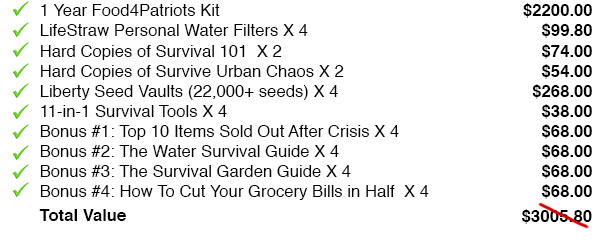
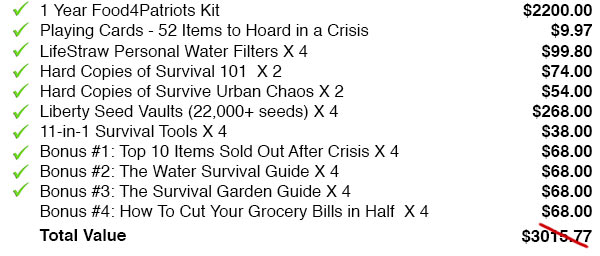
FFP-148 1 Year Updates

Changed region(s): [[0.0, 0.0, 0.72, 0.9625], [0.87, 0.0, 0.99, 0.9917], [0.0, 0.0, 0.06, 0.0583]]

diff --git a/checkout/oto/f4p-1year-kit.php b/checkout/oto/f4p-1year-kit.php
@@ -21,22 +21,22 @@ include_once ('template-header.php'); /*Add template-header-nav.php to add top m
 ?>
 <script src="/js/audio.js"></script>
 <script language="javascript">
-    $(document).ready(function() {
+	$(document).ready(function() {
 
 		$("#optin-form").validate({
-    		rules: {
-    			check1: {
+			rules: {
+				check1: {
 					required: true
-    			},
-  			},
-  			messages: { 
+				},
+			},
+			messages: {
 		  check1: '<div class="warning-check"></div>',
-        },
+		},
 		submitHandler: function(form) {
 		 //optIn(); 
 		 form.submit();
 		}
-    	});
+		});
 		
 	});
 </script>
@@ -70,40 +70,40 @@ include_once ('template-header.php'); /*Add template-header-nav.php to add top m
 	}
 </script>
 <div class="container-main">
-    <div class="breadcrumb1">
-        <a>CHECKOUT</a>
-        <a class="current">ORDER CUSTOMIZATION</a>
-        <a>ORDER CONFIRMATION</a>
-    </div>
+	<div class="breadcrumb1">
+		<a>CHECKOUT</a>
+		<a class="current">ORDER CUSTOMIZATION</a>
+		<a>ORDER CONFIRMATION</a>
+	</div>
 <div class="container oto-width">
 		<div><h1 class="darkRed text-center"><?php echo $firstName;?>, Act Now And Save An Additional $1000 (Today Only)</h1>
 		</div>
-        <div id="videobox" class="hidden-xs">
+		<div id="videobox" class="hidden-xs">
 			<iframe src="//fast.wistia.net/embed/iframe/p5l8v3n48p?videoFoam=true" allowtransparency="true" frameborder="0" scrolling="no" class="wistia_embed" name="wistia_embed" width="640" height="352"></iframe><script src="//fast.wistia.net/assets/external/iframe-api-v1.js"></script>
 		</div>
-        <div style="margin-top:50px;">
+		<div style="margin-top:50px;">
 			<p><?php echo $firstName;?>, congratulations for making the great decision to get the 3-month Food4Patriots kit. </p>
-            <p>You&rsquo;ve taken an important step today to take charge, be more self-reliant and protect your family. I know you&rsquo;re going to sleep easier at night. The folks in our warehouse have reserved your order and they are already busy getting it ready to ship to you in <?php echo $shippingCity;?>.</p>
-          <p>But before you move on, I've got a <strong>special 1-time offer</strong> for you... </p>
-            <p>A lot of folks have told me that while they love having the 3-month kit on hand, they feel that it&rsquo;s simply not enough food… especially given the scary state of affairs in this country and the constant threat of natural disasters. In fact, we have quite a few folks telling us, &ldquo;I&rsquo;ll take everything you&rsquo;ve got!&rdquo;</p>
-            <img class="img-responsive center-block" src="/media/images/f4p//f4p-testimonials-10.png" alt="L. Graeser's Testimonial" style="margin-bottom:20px;">
-        </div>
-        <div>
+			<p>You&rsquo;ve taken an important step today to take charge, be more self-reliant and protect your family. I know you&rsquo;re going to sleep easier at night. The folks in our warehouse have reserved your order and they are already busy getting it ready to ship to you in <?php echo $shippingCity;?>.</p>
+		  <p>But before you move on, I've got a <strong>special 1-time offer</strong> for you... </p>
+			<p>A lot of folks have told me that while they love having the 3-month kit on hand, they feel that it&rsquo;s simply not enough food… especially given the scary state of affairs in this country and the constant threat of natural disasters. In fact, we have quite a few folks telling us, &ldquo;I&rsquo;ll take everything you&rsquo;ve got!&rdquo;</p>
+			<img class="img-responsive center-block" src="/media/images/f4p//f4p-testimonials-10.png" alt="L. Graeser's Testimonial" style="margin-bottom:20px;">
+		</div>
+		<div>
 			<p>I want to do everything I can to help you build your food stockpile as quickly and easily as possible, so to thank you for becoming a customer today, I am offering you an&nbsp;<strong>exclusive $1000.00 discount on a ONE YEAR Food4Patriots kit if you act now</strong>. But this special sale offer is ONLY for customers so if you&rsquo;re seeing this, then good news, you qualify!</p>
-            <p>Plus I'll throw in <strong>FREE Shipping and 27 FREE bonus gifts worth $470.00</strong> -- including 4 of the super-popular Lifestraw Personal Water Filters and over 22,000+ heirloom survival seeds -- just to make this a "no-brainer" for you!</p>
-            <p><?php echo $firstName;?>, would you like to accelerate your results by adding the 1 Year Food4Patriots Kit to your order at a 1-time discount sale price of $1,997? (That&rsquo;s a $1,000.00 discount with all the free goodies…you&rsquo;ll get 1 year&rsquo;s worth of food for just $1.11 per serving!)</p>
-            
-       	  <p class="text-center read-warning">Please read the rest of the page below and accept or decline the offer at the bottom of the page.</p>
+			<p>Plus I'll throw in <strong>FREE Shipping and 27 FREE bonus gifts worth $470.00</strong> -- including 4 of the super-popular Lifestraw Personal Water Filters and over 22,000+ heirloom survival seeds -- just to make this a "no-brainer" for you!</p>
+			<p><?php echo $firstName;?>, would you like to accelerate your results by adding the 1 Year Food4Patriots Kit to your order at a 1-time discount sale price of $1,997? (That&rsquo;s a $1,000.00 discount with all the free goodies…you&rsquo;ll get 1 year&rsquo;s worth of food for just $1.11 per serving!)</p>
+
+		  <p class="text-center read-warning">Please read the rest of the page below and accept or decline the offer at the bottom of the page.</p>
 	</div>
 </div>
 <?php include("f4p-1year-glenbeck.html");?>
 <?php include("f4p-1year-whatsincluded.html");?>
 <div class="container oto-width">
-    <h2 class="darkRed text-center">Get FREE Shipping & Handling!</h2>
-			  	
+	<h2 class="darkRed text-center">Get FREE Shipping & Handling!</h2>
+
 			<p><img src="/media/images/misc/free-shipping-burst-01.png" alt="FREE Shipping" width="181" height="104" class="pull-left">You&rsquo;ll get FREE Shipping &amp; Handling on your 1 Year Food4Patriots Kit when you upgrade today!</p>
-            <p>Because we're already going to be sending you a 3-month kit, we can add the 1Year kit to the shipping box and save on fulfillment costs. Sure, the fact is that it DOES cost more in postage to ship you a much heavier box, but it&rsquo;s still a lot more efficient than sending 2 separate shipments. Everybody loves FREE Shipping and I want to pass along the savings to YOU to make it even easier to upgrade.</p>
-                
+			<p>Because we're already going to be sending you a 3-month kit, we can add the 1Year kit to the shipping box and save on fulfillment costs. Sure, the fact is that it DOES cost more in postage to ship you a much heavier box, but it&rsquo;s still a lot more efficient than sending 2 separate shipments. Everybody loves FREE Shipping and I want to pass along the savings to YOU to make it even easier to upgrade.</p>
+
 	<h2 class="darkRed text-center">Check Out The Amazing FREE Bonuses<br>You Can ONLY Get With The 1 Year Kit!</h2>
 	
 	<p>You&rsquo;re going to get the &ldquo;mother lode&rdquo; of special bonuses  ONLY available with the 1 Year Kit!</p>
@@ -125,9 +125,9 @@ include_once ('template-header.php'); /*Add template-header-nav.php to add top m
 
 
 <div class="container oto-width">
-           
 
-            <h2 class="darkRed text-center">You Are 100% Protected By My Outrageous Double Guarantee.</h2>
+
+			<h2 class="darkRed text-center">You Are 100% Protected By My Outrageous Double Guarantee.</h2>
 			<div class="outLineBoxDarkBlue">
 				<p><img src="/media/images/misc/seal-guarantee-satisfaction.jpg" alt="Guarantee #1" width="250" height="189" class="pull-left img-responsive media">
 					<h3>Guarantee #1:</h3> This is a 100% money back guarantee. No questions asked. If for any reason, you&rsquo;re not 
@@ -136,7 +136,7 @@ include_once ('template-header.php'); /*Add template-header-nav.php to add top m
 					any reason or no reason whatsoever. So there&rsquo;s absolutely no risk for you. You literally can&rsquo;t lose!</p>
 				<div class="clearfix"></div>
 			</div>
-          
+
 			<div class="outLineBoxDarkBlue">
 				<p><img src="/media/images/misc/seal-guarantee-money.jpg" alt="Guarantee #2" width="250" height="192" class="pull-left img-responsive media">
 				<h3>Guarantee #2:</h3> This is an unheard of 300% money back guarantee. It&rsquo;s in addition to guarantee #1. If you open any 
@@ -148,12 +148,12 @@ include_once ('template-header.php'); /*Add template-header-nav.php to add top m
 					really worried about it, because I am so confident you&rsquo;re going to see the value in your Food4Patriots kit as soon 
 					as you have it in your hands.</p>
 			</div>
-            
+
 			<div><img class="img-responsive center-block" src="/media/images/f4p/f4p-testimonials-09.png" width="626" height="269" alt="Stacy's Testimonial"></div>
-            
-            <h2 class="darkRed title-max-600 center-block text-center"><?php echo $firstName;?>, Get On The ‘Fast Track’ - Claim Your 1 Year 
-            	Food4Patriots Kit For $1000.00 Off Right Now!</h2>
-			          	
+
+			<h2 class="darkRed title-max-600 center-block text-center"><?php echo $firstName;?>, Get On The ‘Fast Track’ - Claim Your 1 Year
+				Food4Patriots Kit For $1000.00 Off Right Now!</h2>
+
 			<p>Now I understand that the 1 Year Food4Patriots kit is the right choice for folks who are looking for the ultimate in food security. This kit plus all the bonuses is valued at over $3,000, but because you&rsquo;ve already taken the 1st step, and because I appreciate you putting your trust in us by being a customer, you can get your 1 Year Food4Patriots kit today for just $1,997.</p>
 				
 			<p>You get a year&rsquo;s worth of delicious survival food for $1.11 per serving!</p>
@@ -173,11 +173,11 @@ include_once ('template-header.php'); /*Add template-header-nav.php to add top m
 				Food4Patriots kit at $1000.00 off, click the big orange &ldquo;Click Here To Accept&rdquo; button below.</p>
 
 			<div>
-                <div><img class="img-responsive center-block" src="/media/images/f4p/f4p-1-year-kit-01.jpg"  alt="Food4Patriots 1 Year Kit"/></div>
-                <div><img class="img-responsive center-block" src="/media/images/f4p/value-chart-3.jpg" alt="Value Chart"/></div>
-                <div class="text-center"><h2 id="save" class="darkRed">Act Today And Save Over $1000</h2></div>
-              
-                <a id="accept"></a>
+				<div><img class="img-responsive center-block" src="/media/images/f4p/f4p-1-year-kit-01.jpg"  alt="Food4Patriots 1 Year Kit"/></div>
+				<div><img class="img-responsive center-block" src="/media/images/f4p/value-chart-3.jpg" alt="Value Chart"/></div>
+				<div class="text-center"><h2 id="save" class="darkRed">Act Today And Save Over $1000</h2></div>
+
+				<a id="accept"></a>
 				<?php
 				if($isUpgrade) {
 					?>
@@ -187,47 +187,47 @@ include_once ('template-header.php'); /*Add template-header-nav.php to add top m
 					<?php
 				} else {
 				?>
-                <form action="/checkout/process.php" method="post" accept-charset="utf-8" id="optin-form">
-                    <div style="text-align:center;">
-                        <input type="image" src="/assets/images/buttons/btn-orange-click-accept-02.jpg" name="submit" class="img-responsive center-block" onClick="ga('send', 'event', 'upsell-2-f4p-1-yr-kit', 'f4p-1-yr-kit-accept', 'click-to-accept-bottom');"/>
+				<form action="/checkout/process.php" method="post" accept-charset="utf-8" id="optin-form">
+					<div style="text-align:center;">
+						<input type="image" src="/assets/images/buttons/btn-orange-click-accept-02.jpg" name="submit" class="img-responsive center-block" onClick="ga('send', 'event', 'upsell-2-f4p-1-yr-kit', 'f4p-1-yr-kit-accept', 'click-to-accept-bottom');"/>
 					</div>
-                    
-                    <div>
-                        <table  style="margin-right:auto;margin-left:auto;" border="0" cellspacing="0" cellpadding="0">
-                            <tr>
-                                <td><div style="text-align: left;margin-right:10px;"><strong>Quantity:</strong></div></td>
-                                <td><span style="text-align:center;padding-top:10px;padding-bottom:10px;">
-                                <select name="quantity" id="quantity" style="width:50px;margin-top:3px;margin-bottom:3px;" onchange="productChange();">
-                                  <?php
-                                for ($i=1; $i<=5; $i++)
-                                  {
-                                  echo "<option>". $i . "</option>";
-                                      }
-                                 ?>
-                                </select>
-                                </span></td>
-                            </tr>
-                        </table>
-                    </div>
-                  
-                    <div style="position:relative;text-align:left;margin-top:10px;max-width:600px;margin-right:auto;margin-left:auto;">
-                        <div style="float:left;margin-right:5px;">
-                            <input type="checkbox" id="check1" name="check1">
-                            <img src="/assets/images/misc/yes-01.jpg" width="74" height="34" alt="Yes">
-                        </div>
-                        <div id="terms">I want to add the 1 Year Food4Patriots Kit to my order at the 1-time discount sale price of $1,997. 
-                            I will get FREE Shipping and 27 FREE Bonus Gifts including 4 of the super-popular Lifestraw Personal Water Filters 
-                            and over 22,000+ heirloom survival seeds
-                        </div>
-                    </div>
-                    <div style="margin-top:20px;">
-                        <img class="img-responsive center-block"  src="/media/images/f4p/f4p-testimonials-07.png" alt="Food4Patriots Testimonial">
-                    </div>
-                    <div>
-                        <img class="img-responsive center-block" src="/media/images/f4p/f4p-testimonials-02.png" alt="Food4Patriots Testimonial">
-                    </div>
-                    <div class="text-center" style="margin-top:20px;"><strong>OR</strong></div>
-                </form>
+
+					<div>
+						<table  style="margin-right:auto;margin-left:auto;" border="0" cellspacing="0" cellpadding="0">
+							<tr>
+								<td><div style="text-align: left;margin-right:10px;"><strong>Quantity:</strong></div></td>
+								<td><span style="text-align:center;padding-top:10px;padding-bottom:10px;">
+								<select name="quantity" id="quantity" style="width:50px;margin-top:3px;margin-bottom:3px;" onchange="productChange();">
+								  <?php
+								for ($i=1; $i<=5; $i++)
+								  {
+								  echo "<option>". $i . "</option>";
+									  }
+								 ?>
+								</select>
+								</span></td>
+							</tr>
+						</table>
+					</div>
+
+					<div style="position:relative;text-align:left;margin-top:10px;max-width:600px;margin-right:auto;margin-left:auto;">
+						<div style="float:left;margin-right:5px;">
+							<input type="checkbox" id="check1" name="check1">
+							<img src="/assets/images/misc/yes-01.jpg" width="74" height="34" alt="Yes">
+						</div>
+						<div id="terms">I want to add the 1 Year Food4Patriots Kit to my order at the 1-time discount sale price of $1,997.
+							I will get FREE Shipping and 27 FREE Bonus Gifts including 4 of the super-popular Lifestraw Personal Water Filters
+							and over 22,000+ heirloom survival seeds
+						</div>
+					</div>
+					<div style="margin-top:20px;">
+						<img class="img-responsive center-block"  src="/media/images/f4p/f4p-testimonials-07.png" alt="Food4Patriots Testimonial">
+					</div>
+					<div>
+						<img class="img-responsive center-block" src="/media/images/f4p/f4p-testimonials-02.png" alt="Food4Patriots Testimonial">
+					</div>
+					<div class="text-center" style="margin-top:20px;"><strong>OR</strong></div>
+				</form>
 					<?php
 					}
 					?>

diff --git a/checkout/alt/f4p-1yearkit-offer.php b/checkout/alt/f4p-1yearkit-offer.php
@@ -53,7 +53,7 @@ include_once ('template-top.php');
 </div>
 <?php include("f4p-1year-bonus-lifestraw.html");?>
 <?php include("f4p-1year-bonus-survivalbooks.html");?>
-<?php //include("f4p-1year-bonus-pam.html");?>
+<?php include("f4p-1year-bonus-cards.html");?>
 <div class="container oto-width">
 	<h2 class="darkRed text-center">You Will Also Get FOUR More Sets Of All Of Your Original FREE Bonuses When You Take Advantage Of This Special Upgrade Offer! </h2>
 	<p>Add to your own stockpile, keep at multiple locations or give to friends and loved ones so they can experience the same peace of mind. Your FREE bonuses include:</p>
